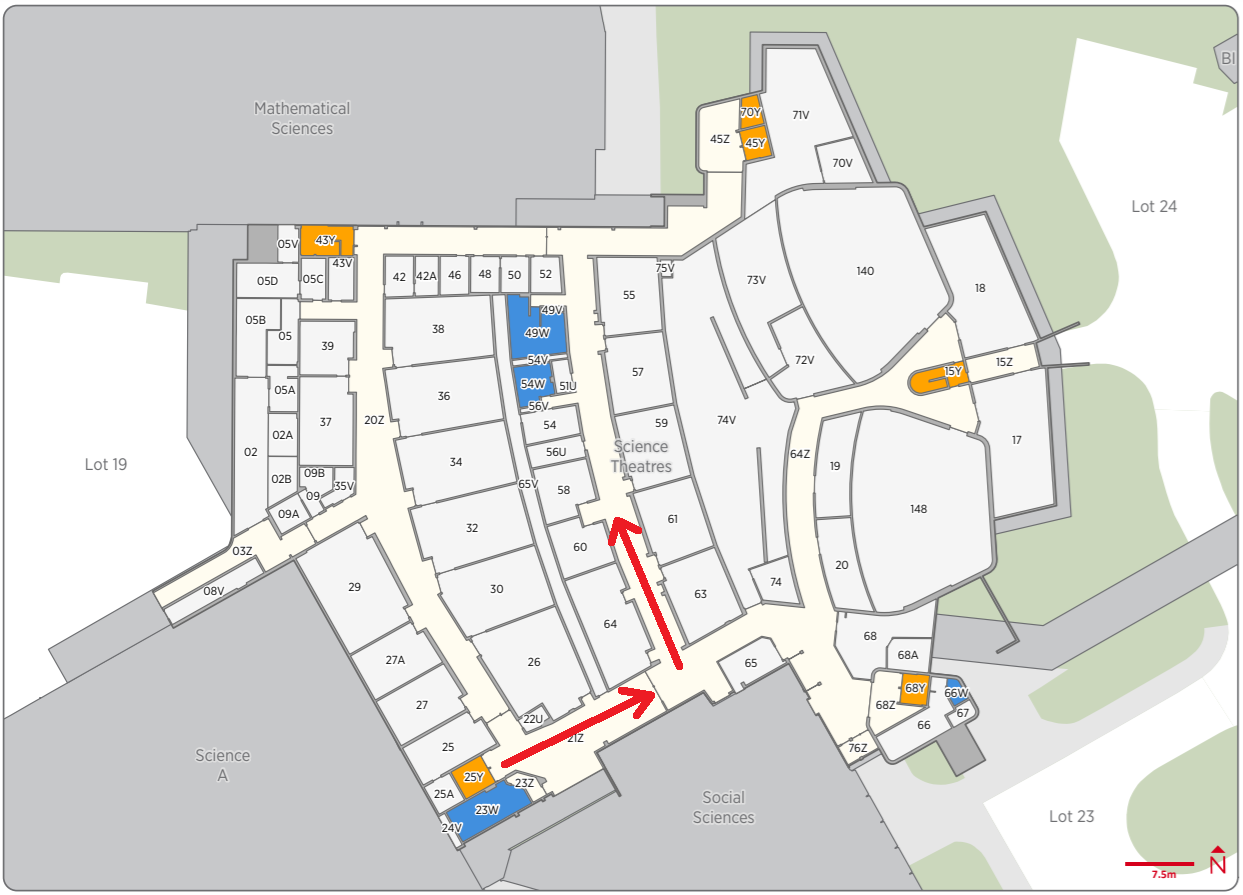
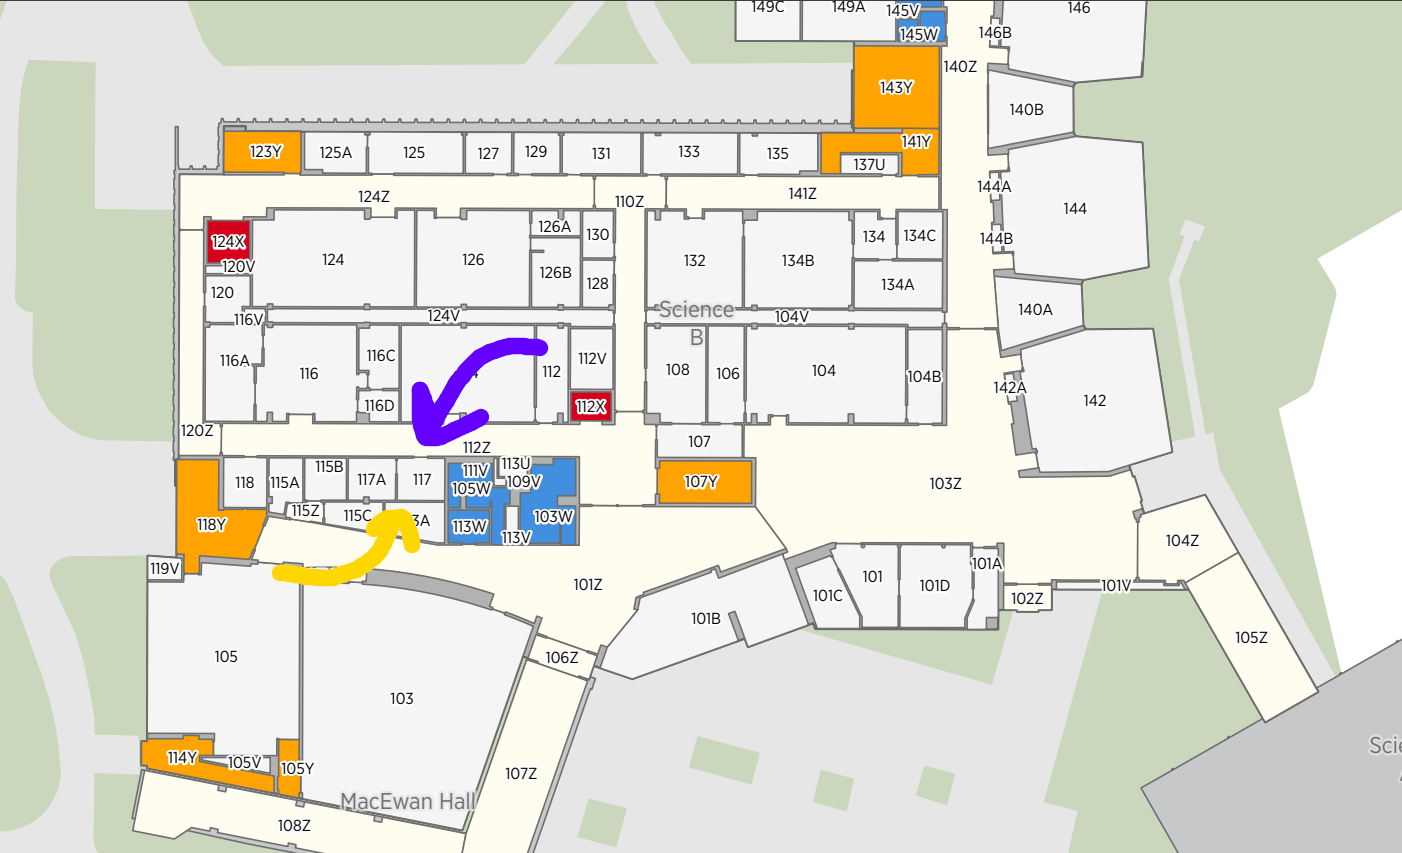
Replaced Room mentions with new room. Fixed weird top bar thing on home page (Hopefully)

diff --git a/html/contact.html b/html/contact.html
@@ -62,18 +62,16 @@
 
                                     <h3>PASA Room</h3><hr><br>
                                     <p>
-                                        The PASA room is located in Science Theatres 058 and 060. When walking into ST from Science A, descend
-                                        the flight of stairs into the basement. Walk straight and turn left at the second hallway. Proceed
-                                        down that hallway for approximately 30 meters and the room will be on your left.
+                                        The PASA room is located in Science B 117.
                                         <br><br>
                                         See the <a href="https://ucalgary-gs.maps.arcgis.com/apps/webappviewer/index.html?id=2e1817b41cb64815a50f617593aabf4e">UCalgary Interactive Room Finder</a>
                                         for a map of campus.
                                         <br><br>
                                         <img width=90% class="map img" src="../assets/media/map.png" alt="Map">
                                         <br><br>
-                                        The entrance to the room from the hall is shown in the picture below.
+                                        The entrance to the room from the hall is shown in the picture below (Placeholder for now).
                                         <br><br>
-                                        <img width=90% class="map img" src="../assets/media/room-from-hall.jpg" alt="Room">
+                                        <img width=90% class="map img" src="../assets/media/placeholder.png" alt="Room">
                                     </p>
                                         <br>
 

diff --git a/html/faq.html b/html/faq.html
@@ -44,6 +44,15 @@
                             <br>
 
                             <details> 
+                                <summary>Where is the new room?</summary> 
+                                    <div class="faq-answer"> 
+                                        <p> Science B 117
+                                        </p> 
+                                    </div> 
+                                </details>
+                            <br>
+                            <details> 
+                            <details> 
                                 <summary>Why is this happening?</summary> 
                                     <div class="faq-answer"> 
                                         <p> In short, the Faculty of Science has committed resources to creating a new club space for PASA and CSC after reviewing the quality of our current club rooms. </p> <p> Some of the particular issues they've cited include the lack of ventilation and university-approved furniture, as well as accessibility issues due to the basement location and the stairwell leading into PASA. 

diff --git a/html/resources.html b/html/resources.html
@@ -44,7 +44,7 @@
                                 <b>Club Room</b><br>
                                 PASA offers a space where members are welcome to come by to academically and socially connect with each other.
                                 Depending on executive availability, the club room is often open weekdays between roughly between 8am
-                                and 8pm (when people are around). Come find us in ST 058-060!
+                                and 8pm (when people are around). Come find us in Science B 117!
                             </p>
 
                             <p>

diff --git a/index.html b/index.html
@@ -58,7 +58,7 @@
                             <a href="html/calendar.html" data-target="events">Calendar</a>
                             <a href="html/resources.html" data-target="resources">Resources</a>
                             <a href="html/contact.html" data-target="contact">Contact Us</a>
-                            <!-- <a href="html/faq.html" data-target="contact">FAQ</a> -->
+                            <a href="html/faq.html" data-target="faq">FAQ</a>
                         </nav>
                     </div>
                 </div>

diff --git a/css/style.css b/css/style.css
@@ -100,6 +100,7 @@ body {
     max-height: 100vh !important;
     height: 100vh !important;
     max-width: 100vw !important;
+    top:0;
 }
 
 .top-container {
@@ -348,6 +349,7 @@ html.transition *:after {
 
 #topBar {
     z-index: 999 !important;
+    top: 0;
 }
 
 #dropdown {
@@ -361,6 +363,10 @@ html.transition *:after {
 
 #navLinks a:hover {
     color: var(--text) !important;
+}
+
+#updatecontent {
+    display: flow-root;
 }
 
 #middle {

diff --git a/html/common/top.html b/html/common/top.html
@@ -69,9 +69,9 @@
                 <li class="nav-item">
                     <a href="/html/contact.html" class="nav-link">Contact Us</a>
                 </li>
-                <!-- <li class="nav-item">
+                <li class="nav-item">
                     <a href="/html/faq.html" class="nav-link">Room Change FAQ</a>
-                </li> -->
+                </li>
             </ul>
         </div>
     </div>
